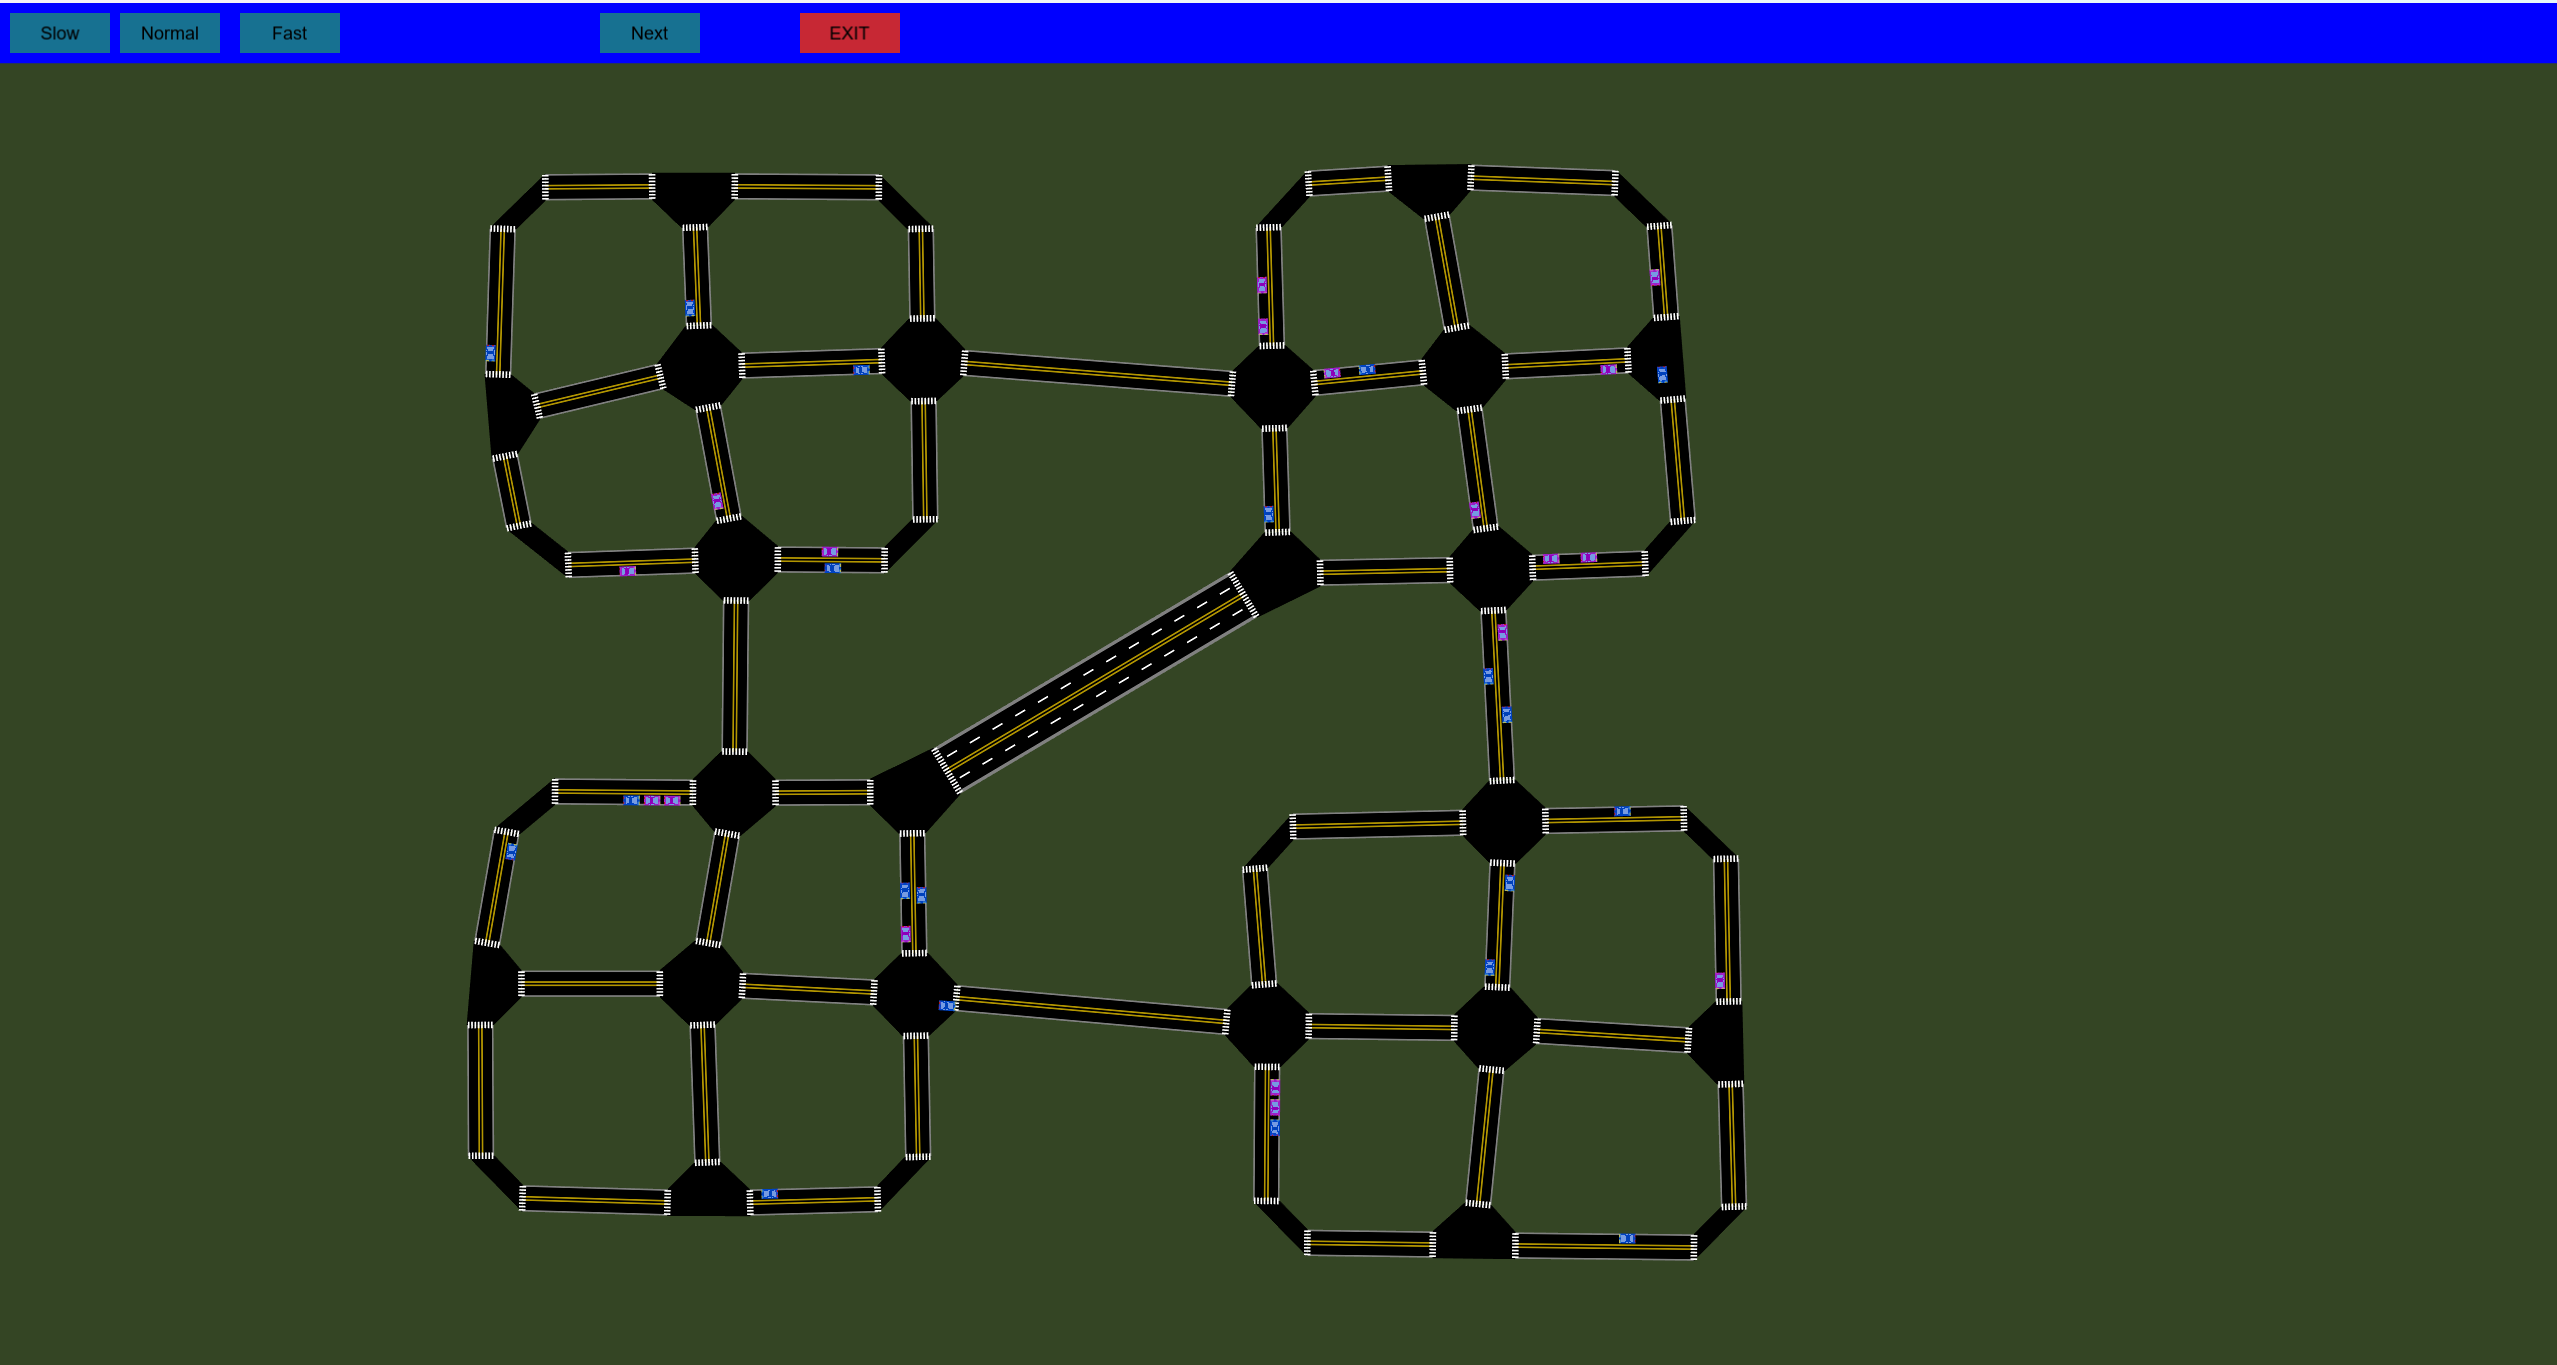
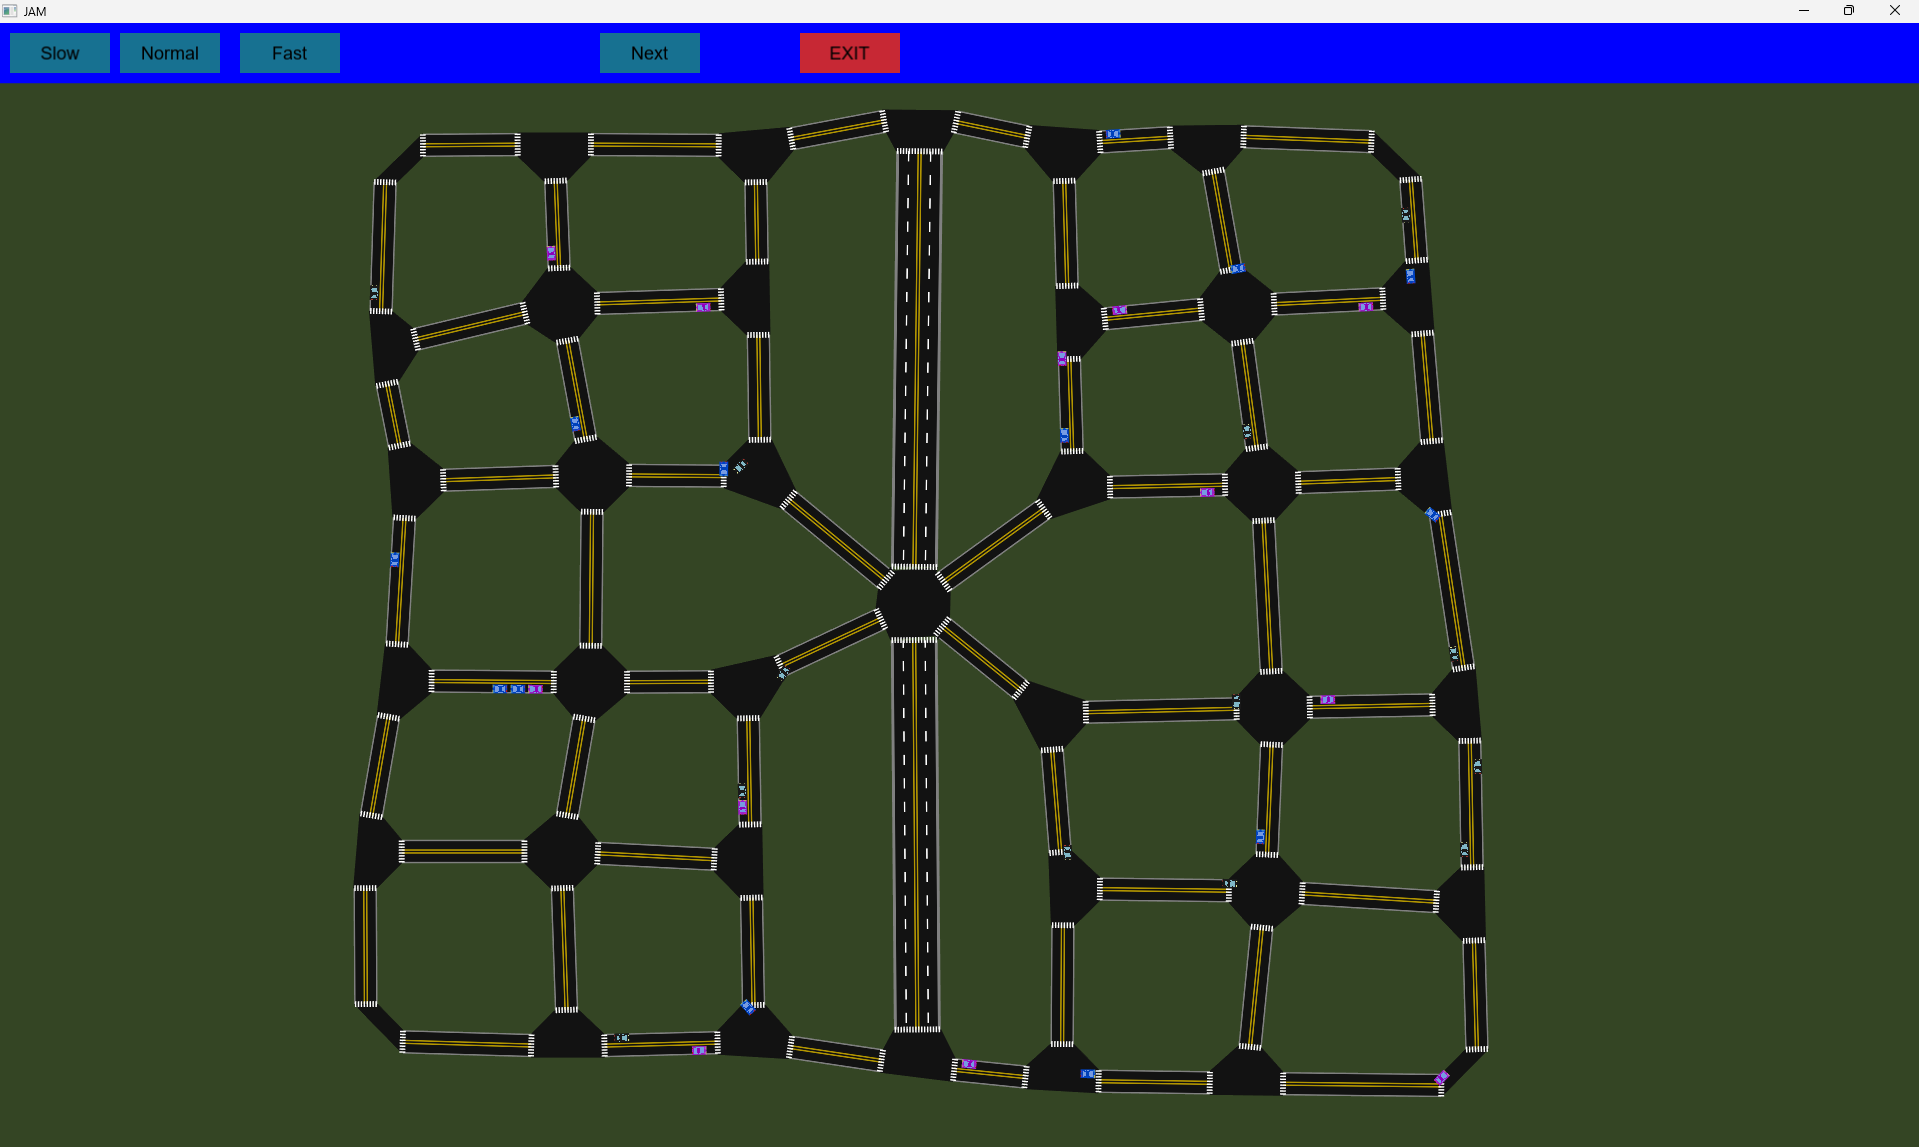
release: test

Changed region(s): [[0.0, 0.0, 1.0, 0.9765]]

diff --git a/README.md b/README.md
@@ -1,3 +1,4 @@
 # JAM
 JAM is a video game where you build the road network of a city and manage traffic.
-![Screenshot of game showing many cars navigating a large network of roads](assets/images/gameimage2.png)
+![Screenshot of game title screen showing many cars navigating a large network of roads and two buttons, load saved game and new game](assets/images/gameimage3.png)
+![Screenshot of game simulation window showing many cars navigating a large network of roads](assets/images/gameimage2.png)
